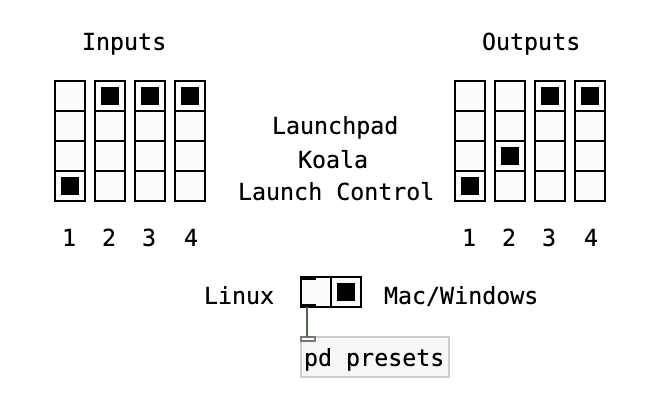
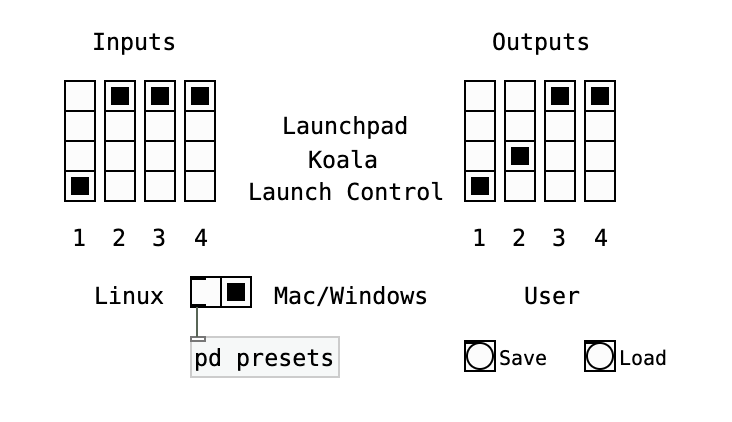
Update documentation.

diff --git a/README.md b/README.md
@@ -73,25 +73,35 @@ Finally, you can also use the two button rows at the bottom as a little clip lau
 
 It's good to stick to the default setup described above if you can, since this matches how the patches work internally. However, the patches also have a built-in internal MIDI patchbay which makes it possible to change things around if needed.
 
-The MIDI patchbay is available as a subpatch in both the koala-launchpad and koala-launchcontrol patches. Simply click on the `patchbay` subpatch to open it. You can also load lib/patchbay.pd directly in Pd if you want to set up things beforehand. Here's how the patch looks like:
+The MIDI patchbay enables you to adjust the MIDI port mapping to pretty much any MIDI configuration of up to 4 input and output ports that you might use. It is accessible as a subpatch in both the koala-launchpad and koala-launchcontrol patches. Simply click on the `patchbay` subpatch to open it. You can also load lib/patchbay.pd directly in Pd if you want to set up things beforehand.
+
+Here's how the patchbay patch looks like:
 
 <img src="pic/patchbay.png" alt="patchbay" style="zoom: 67%;" />
 
-The individual mappings are set using the two grids of radio controls in the upper half of the patch. On both the input and the output side, the rows represent the different internal "device ports" as the patches see them, while the columns represent the actual Pd port numbers they are assigned to. You can also click on the first (unlabeled) row in a column to have input from or output to that Pd port disabled.
+The individual mappings are set using the two grids of radio controls in the upper half of the patch. On both the input and the output side, the rows represent the different internal "device ports" as the patches see them, while the columns represent the actual Pd port numbers 1-4 they are assigned to. You can also click on the first (unlabeled) row in a column to have input from or output to that Pd port disabled.
 
-In the lower half there are two useful presets you can choose. "Linux" matches the default setup. That is, Launchpad and Launch Control are mapped to Pd's first and third port on both input and output, while the Koala output is mapped to Pd's second output port. In this setup, Pd's input and output port #4 isn't used.
+In the lower half there is another radio control with two predefined presets you can choose, "Linux" and "Mac/Windows". There's also a third "User" preset which can be saved and reloaded; we'll get back to that after discussing the built-in presets.
+
+#### Built-in presets
+
+The "Linux" preset matches the default setup (which also matches the actual internal device routings). That is, Launchpad and Launch Control are mapped to Pd's first and third port on both input and output, while the Koala output is mapped to Pd's second output port. In this setup, Pd's input and output port #4 isn't used at all.
 
 Conversely, the "Mac/Windows" preset changes to an alternative port mapping:
 
 <img src="pic/patchbay-mac.png" alt="patchbay" style="zoom:67%;" />
 
-In this setup the Launchpad connects to *both* port 1 and 2, on both input and output, while the Launch Control XL and Koala utilize the remaining ports. In Pd's MIDI setup, you then connect the Launchpad MIDI and DAW ports to port 1 and 2, respectively, on both input and output. Input port 3 gets connected to the Launch Control, while output ports 3 and 4 are connected to Koala and the Launch Control, respectively. E.g., in Purr Data the MIDI connections look like this on the Mac:
+In this setup the Launchpad connects to *both* port 1 and 2, on both input and output, while the Launch Control XL and Koala utilize the remaining ports. In Pd's MIDI setup, you then connect the Launchpad MIDI and DAW ports to port 1 and 2, respectively, on both input and output. Input port 3 gets connected to the Launch Control, while output ports 3 and 4 are connected to Koala and the Launch Control, respectively. E.g., in Purr Data the MIDI connections would look like this on the Mac:
 
 <img src="pic/connections-mac.png" alt="connections-mac" style="zoom: 50%;" />
 
 This setup has the advantage that you don't have to mess around with loopback devices and external patchbays, which makes things much easier on Mac and Windows. Of course, you could also use this setup on Linux, but there you have to connect the ALSA MIDI devices using a patchbay like [QjackCtl](https://qjackctl.sourceforge.io/) anyway, so you might just as well stick to the default "Linux" setup.
 
-You can also customize the port mapping in the upper half by clicking on the various radio controls. For instance, if you only want to use the Launch Control XL, then you might just disable the Launchpad ports, assign the Launch Control to input and output port 1, and keep the Koala on output port 2, as follows:
+If you want to make this your default setup, simply click the "Mac/Windows" radio button and then the "Save" button, and make sure that you have configured the Pd MIDI ports accordingly. Next time you launch any of the koala-launchpad and koala-launchcontrol patches, the patchbay will be set for you.
+
+#### User-defined presets
+
+You can also customize the port mapping in the upper half to your heart's content by clicking on the various radio controls. For instance, if you only want to use the Launch Control XL, then you might just disable the Launchpad ports, assign the Launch Control to input and output port 1, and keep Koala on output port 2, as follows:
 
 <img src="pic/patchbay-launchcontrol.png" alt="patchbay" style="zoom:67%;" />
 
@@ -103,7 +113,7 @@ Another use case would be the following setup which moves the Launchpad and Laun
 
 In particular, this setup would allow you to use the APC mini (via the koala-sampler patch) alongside both the Launchpad and the Launch Control XL, if you configure Pd's MIDI inputs and outputs accordingly.
 
-In conclusion, the patchbay enables you to adjust the MIDI port mapping to pretty much any MIDI configuration of up to 4 input and output ports that you might use. Once you've set up everything to your liking, you can also save the patchbay.pd patch so that the state of the mapping is recalled the next time you launch any of the koala-launchpad and koala-launchcontrol patches.
+Once you've set up everything to your liking, you can save your custom setup as a user-defined preset by pushing the "Save" button. The state of the mapping will then be recalled the next time you launch any of the koala-launchpad and koala-launchcontrol patches. You can also load the user preset explicitly by pushing the "Load" button, which comes in handy if you messed up your mapping and just want to go back to the previously saved state.
 
 ### Koala Sampler on Linux
 
@@ -115,4 +125,4 @@ We've actually included three different variants of the koala-alsa.xml snapshot 
 
 Note that both koala-alsa.xml and koala-alsa3.xml assume that you stick to the default "Linux" setup for the port mappings. Otherwise you'll have to edit the snapshot files accordingly.
 
-I have tested these setups extensively on Manjaro Linux with the [64 bit Intel version of Koala](https://www.elf-audio.com/koala/linux.php), and I'm optimistic that they will also work on other reasonably new Linux systems, as long as you can get the Koala binary to work. But, as always, your mileage may vary.
+I have tested all these setups extensively on Manjaro Linux with the [64 bit Intel version of Koala](https://www.elf-audio.com/koala/linux.php), and I'm optimistic that they will also work on other reasonably new Linux systems, as long as you can get the Koala binary to work. But, as always, your mileage may vary.
